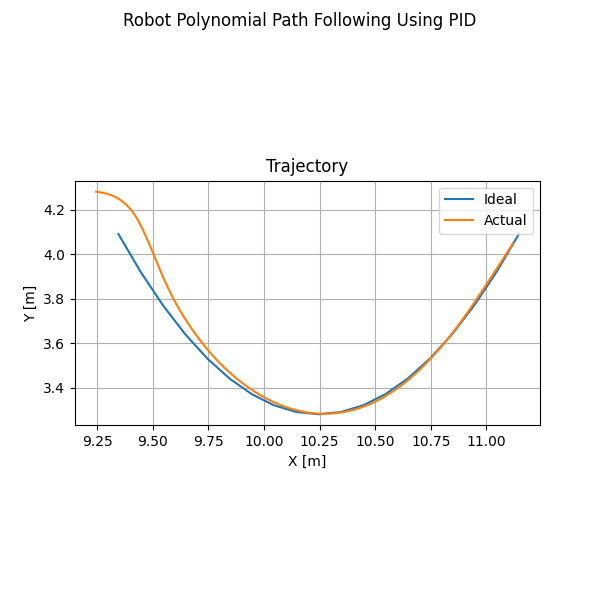
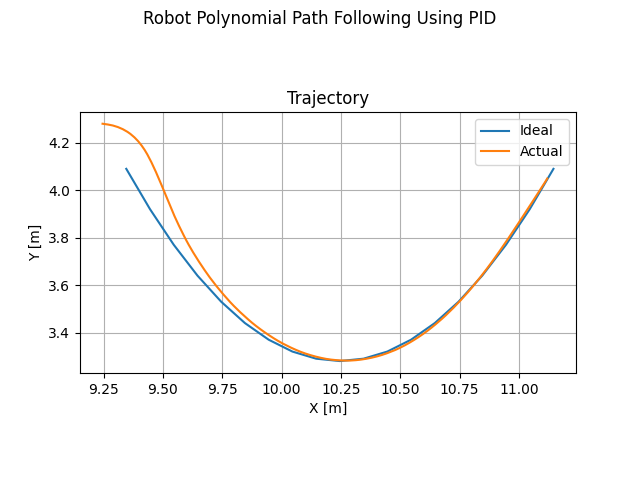
traj graph touch up

diff --git a/plot_errors.py b/plot_errors.py
@@ -77,7 +77,7 @@ def plot_traj(dir: Path, traj_name: str, ctrlr_name: str) -> None:
     f_pose = dir.joinpath("robot_pose.csv")
     f_save = dir.joinpath("graph.png")
 
-    fig, ax0 = plt.subplots(1, 1, figsize=(6, 6))
+    fig, ax0 = plt.subplots(1, 1)
     fig.suptitle(f"Robot {traj_name.capitalize()} Path Following Using {ctrlr_name}")
 
     # plot ideal traj
